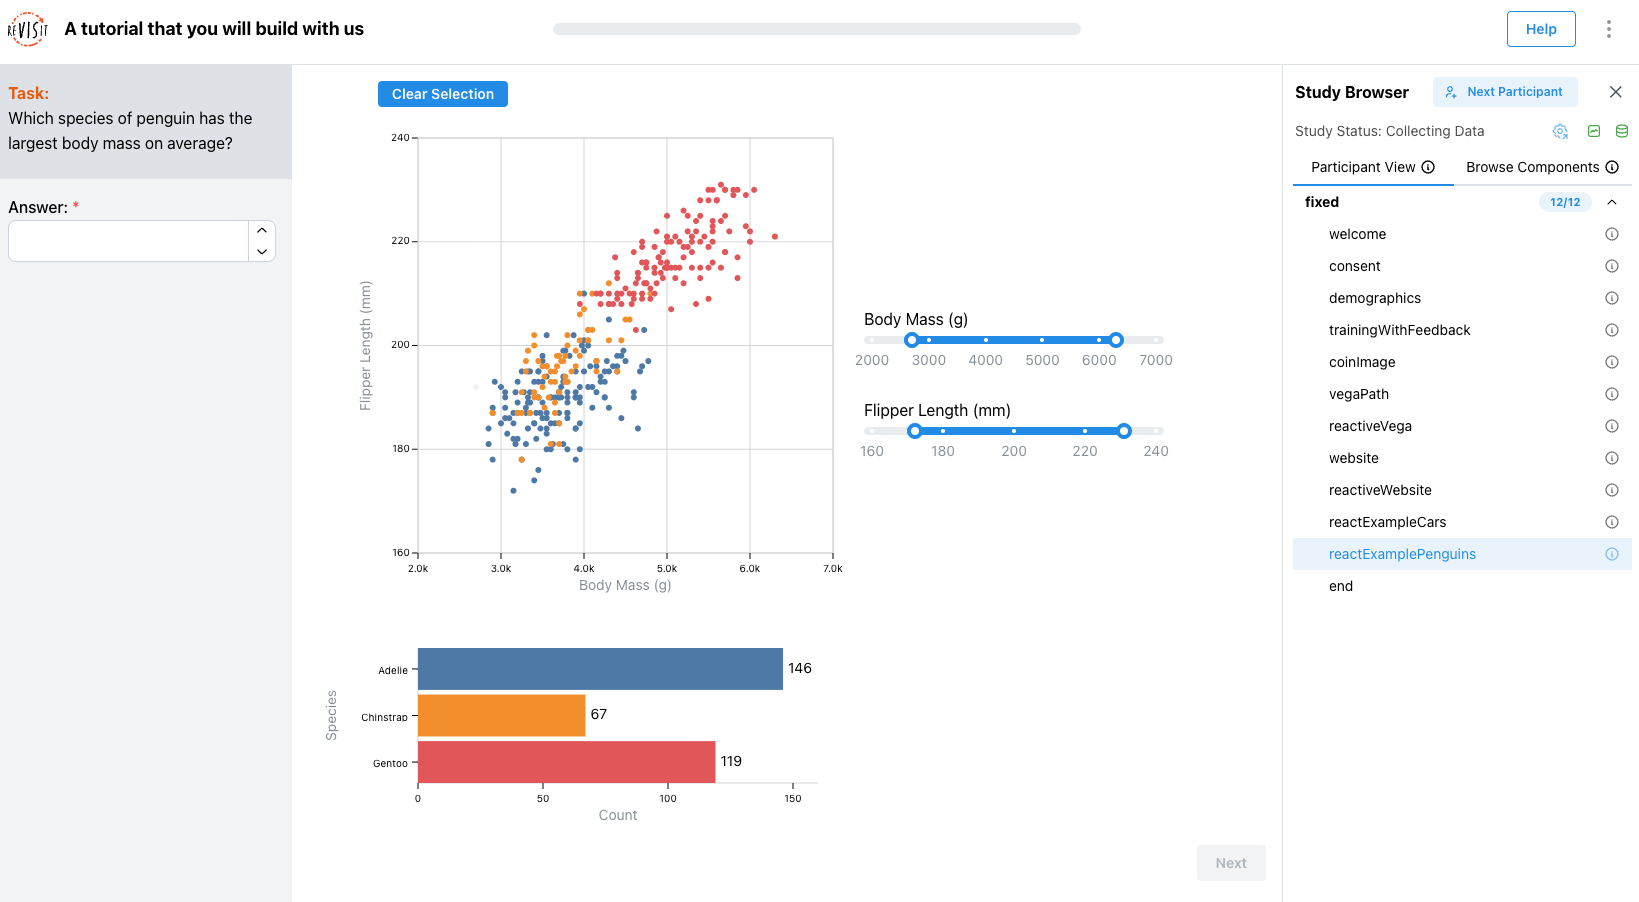
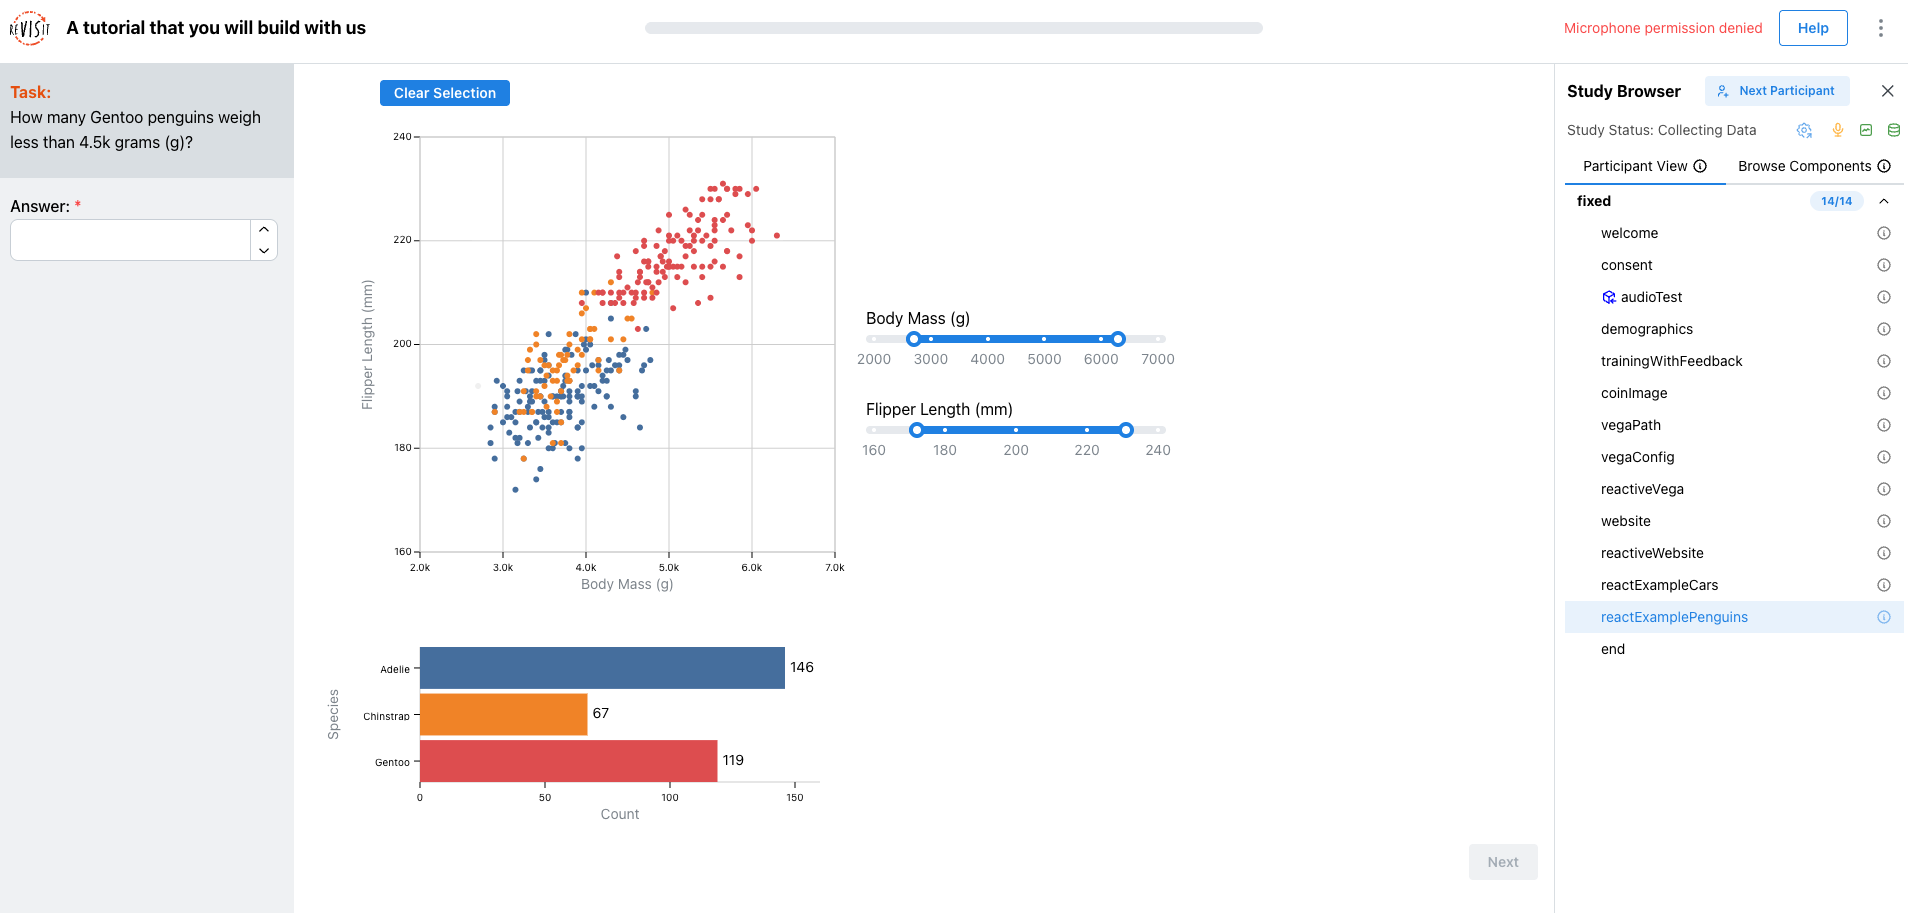
Update tutorial content

diff --git a/docs/tutorial/config.json.md b/docs/tutorial/config.json.md
@@ -14,11 +14,13 @@ Start the local server from the root of your template repository:
 yarn serve
 ```
 
-Before editing the tutorial Study Config, open [`public/global.json`](https://github.com/revisit-studies/template/blob/main/public/global.json). This file follows the [Global Config](../typedoc/interfaces/GlobalConfig.md) schema. The template already registers the tutorial config. You should see `tutorial` listed in both `configsList` and `configs`.
+Before editing the tutorial Study Config, open [`public/global.json`](https://github.com/revisit-studies/template/blob/main/public/global.json). This file follows the [Global Config](../typedoc/interfaces/GlobalConfig.md) schema. The template should be empty for now.
+
+Let's add a tutorial study here. 
 
 ```json title="public/global.json"
 {
-  "$schema": "https://raw.githubusercontent.com/revisit-studies/study/v2.4.2/src/parser/GlobalConfigSchema.json",
+  "$schema": "https://raw.githubusercontent.com/revisit-studies/study/v2.4.3/src/parser/GlobalConfigSchema.json",
   "configsList": ["tutorial"],
   "configs": {
     "tutorial": {
@@ -42,7 +44,7 @@ If you go into the tutorial study right now, you will be directed straight to th
 
 ![The tutorial study with the end page](./img/config.json/step2-1.png)
 
-Inside the empty `components` object, add a basic [Markdown component](../typedoc/interfaces/MarkdownComponent.md) named `welcome`.
+Next, open `public/tutorial/config.json`. Inside the empty `components` object, add a basic [Markdown component](../typedoc/interfaces/MarkdownComponent.md) named `welcome`.
 
 ```json title="public/tutorial/config.json"
 "components": {
@@ -67,8 +69,6 @@ Now add `welcome` to the sequence:
 }
 ```
 
-Because this is a [fixed sequence](../designing-studies/sequences/study-sequences.md#simple-sequence), participants see the component names in this array from top to bottom.
-
 Refresh the local study or click "Next participant" to reload the Study Config and start a fresh preview. You should now see the welcome page.
 
 
@@ -77,7 +77,6 @@ Refresh the local study or click "Next participant" to reload the Study Config a
 :::warning
 A common mistake is to add the component but forget the sequence entry. If the component exists in `components` but is not listed in `sequence.components`, the component will not show up.
 :::
-
 
 ## Step 3: Add the consent component
 
@@ -95,7 +94,7 @@ Add a comma after the `welcome` component, then add a second Markdown component 
 }
 ```
 
-This component displays [`public/tutorial/assets/consent.md`](https://github.com/revisit-studies/template/blob/main/public/tutorial/assets/consent.md). The `nextButtonText` field changes the text on the next button, which is useful for consent pages because the button can say exactly what the participant is agreeing to.
+This component displays [`public/tutorial/assets/consent.md`](https://github.com/revisit-studies/template/blob/main/public/tutorial/assets/consent.md). The `nextButtonText` field changes the text on the next button, which is useful for consent pages.
 
 Add `consent` after `welcome` in the sequence:
 
@@ -606,7 +605,7 @@ Add a second React component trial that uses the same React file with different 
   "reactExamplePenguins": {
     "type": "react-component",
     "path": "tutorial/assets/ReactExample.tsx",
-    "instruction": "Consider only penguins with a body mass greater than 4000 g AND a flipper length greater than 200 mm. How many penguins match these conditions?",
+    "instruction": "How many Gentoo penguins weigh less than 4.5k grams (g)?",
     "response": [
       {
         "id": "response",

diff --git a/docs/tutorial/replication-config.json.md b/docs/tutorial/replication-config.json.md
@@ -18,7 +18,7 @@ Before editing the replication Study Config, open [`public/global.json`](https:/
 
 ```json title="public/global.json"
 {
-  "$schema": "https://raw.githubusercontent.com/revisit-studies/study/v2.4.2/src/parser/GlobalConfigSchema.json",
+  "$schema": "https://raw.githubusercontent.com/revisit-studies/study/v2.4.3/src/parser/GlobalConfigSchema.json",
   "configsList": ["tutorial", "replication"],
   "configs": {
     "tutorial": {